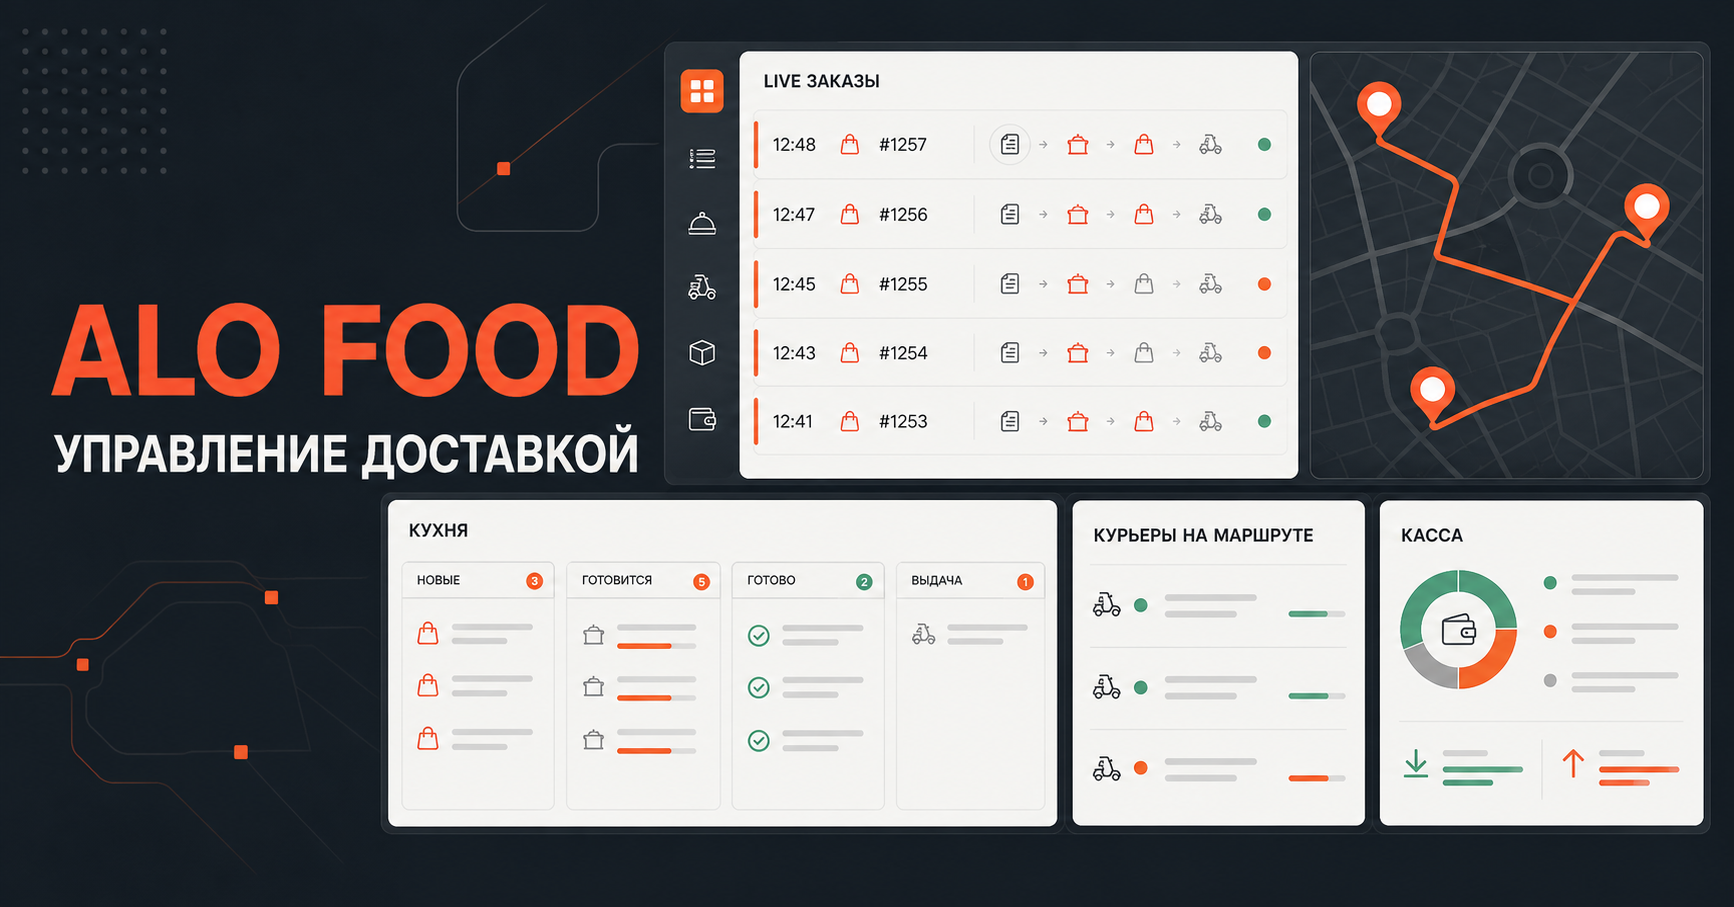
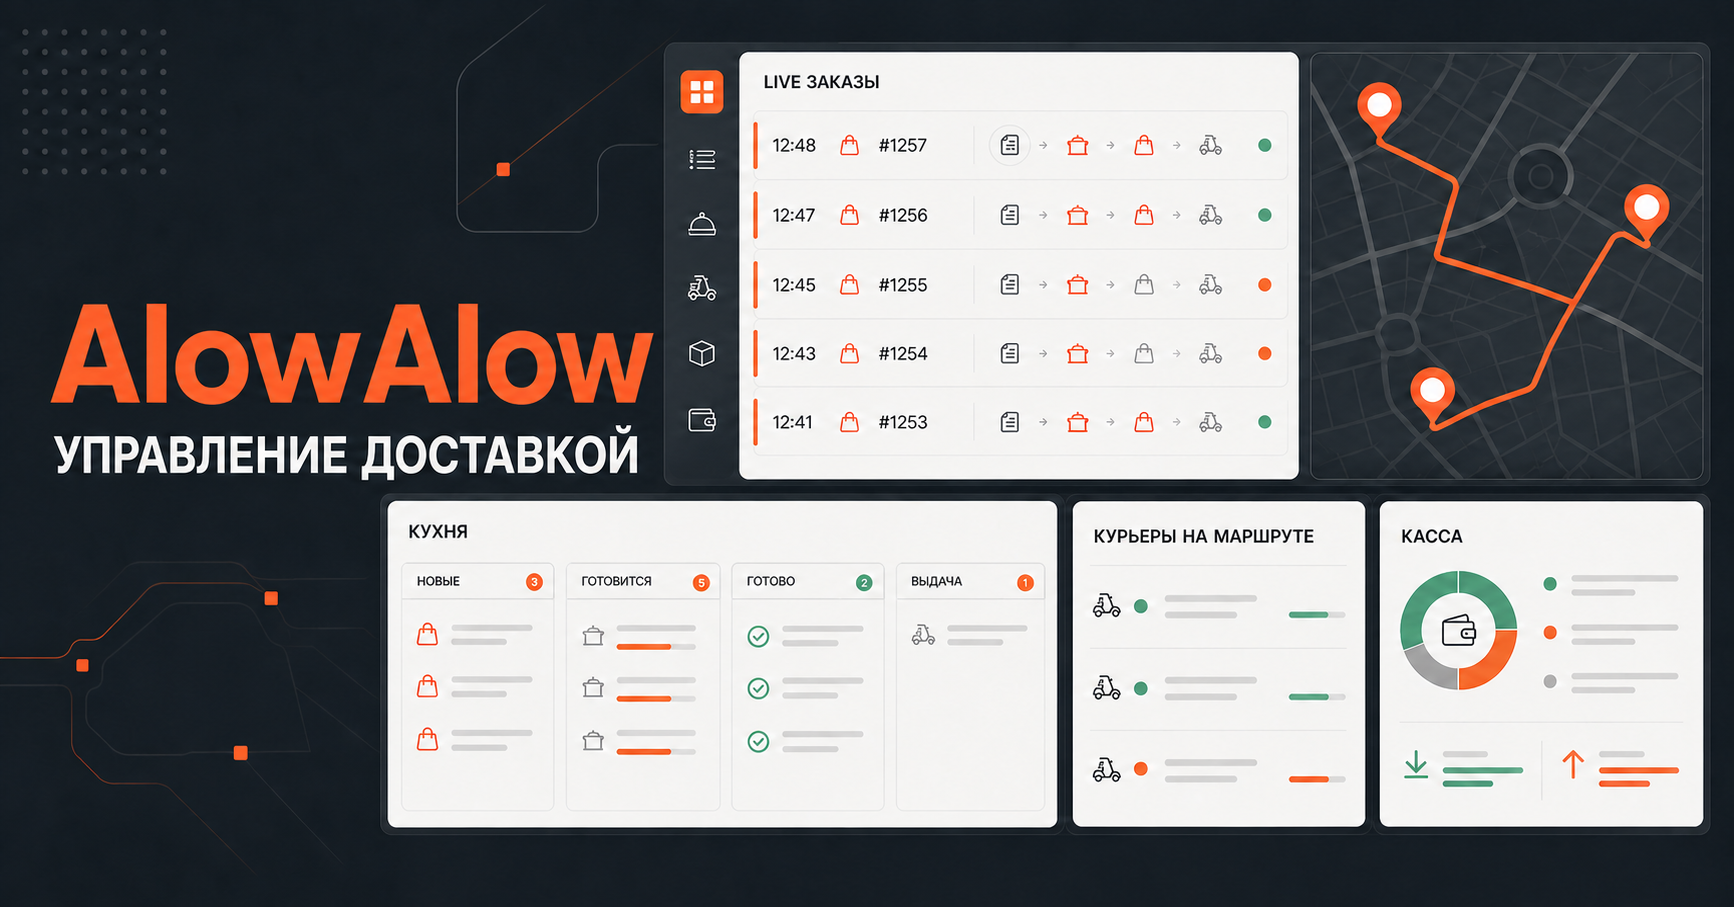
chore: rename product to AlowAlow

diff --git a/app/page.tsx b/app/page.tsx
@@ -41,7 +41,7 @@ const initialOrders: DemoOrder[] = [
     id: 1048,
     customer: "Aýlar B.",
     phone: "+993 65 42 18 90",
-    items: "ALO Burger ×2, фри, Cola",
+    items: "AlowAlow Burger ×2, фри, Cola",
     total: 126,
     status: "NEW",
     time: "2 мин",
@@ -183,7 +183,7 @@ export default function AdminDashboard() {
   const [toast, setToast] = useState("Система работает штатно");
   const [modal, setModal] = useState<"product" | "promo" | null>(null);
   const [products, setProducts] = useState([
-    { name: "ALO Burger", category: "Бургеры", price: 48, active: true, color: "coral" },
+    { name: "AlowAlow Burger", category: "Бургеры", price: 48, active: true, color: "coral" },
     { name: "Маргарита", category: "Пицца", price: 65, active: true, color: "yellow" },
     { name: "Chicken Box", category: "Комбо", price: 74, active: true, color: "green" },
     { name: "Цезарь", category: "Салаты", price: 47, active: false, color: "purple" },
@@ -246,11 +246,11 @@ export default function AdminDashboard() {
   return (
     <div className="app-shell">
       <aside className="sidebar">
-        <button className="brand" onClick={() => setNav("orders")} aria-label="ALO Food">
+        <button className="brand" onClick={() => setNav("orders")} aria-label="AlowAlow">
           <span className="brand-mark">A</span>
           <span>
-            <strong>ALO</strong>
-            <small>food operations</small>
+            <strong>AlowAlow</strong>
+            <small>delivery operations</small>
           </span>
         </button>
 
@@ -604,7 +604,7 @@ function CatalogView({
             <div className="product-copy">
               <small>{product.category}</small>
               <h3>{product.name}</h3>
-              <p>{product.category === "Пицца" ? "Томаты, моцарелла и базилик на тонком тесте." : "Свежие ингредиенты и фирменный соус ALO."}</p>
+              <p>{product.category === "Пицца" ? "Томаты, моцарелла и базилик на тонком тесте." : "Свежие ингредиенты и фирменный соус AlowAlow."}</p>
               <div><strong>{product.price} TMT</strong><button>Редактировать</button></div>
             </div>
             <label className="switch">
@@ -629,7 +629,7 @@ function MarketingView({ openModal }: { openModal: () => void }) {
       <section className="content-card">
         <div className="page-intro"><div><span className="section-kicker">Главная клиента</span><h2>Активные баннеры</h2></div><button className="secondary-button">＋ Баннер</button></div>
         <div className="banner-preview">
-          <div><span>ТОЛЬКО СЕГОДНЯ</span><h3>Вечер вкуснее<br />с ALO</h3><p>−20% на семейные комбо</p></div>
+          <div><span>ТОЛЬКО СЕГОДНЯ</span><h3>Вечер вкуснее<br />с AlowAlow</h3><p>−20% на семейные комбо</p></div>
           <strong>20<small>%</small></strong>
         </div>
         <div className="list-row"><span className="drag">⁝⁝</span><span className="thumb coral" /><div><strong>Семейный вечер</strong><small>До 27 июля, 23:59</small></div><StatusPill status="READY" /><button>•••</button></div>
@@ -704,7 +704,7 @@ function CreateModal({
     <div className="modal-backdrop" onMouseDown={onClose}>
       <div className="modal" onMouseDown={(event) => event.stopPropagation()} role="dialog" aria-modal="true" aria-label={type === "product" ? "Новое блюдо" : "Новый промокод"}>
         <div className="modal-head"><div><span className="section-kicker">{type === "product" ? "Каталог" : "Маркетинг"}</span><h2>{type === "product" ? "Новое блюдо" : "Создать промокод"}</h2></div><button onClick={onClose}>×</button></div>
-        <label><span>{type === "product" ? "Название" : "Код"}</span><input autoFocus value={name} onChange={(event) => setName(event.target.value)} placeholder={type === "product" ? "Например, ALO Cheeseburger" : "Например, SUMMER20"} /></label>
+        <label><span>{type === "product" ? "Название" : "Код"}</span><input autoFocus value={name} onChange={(event) => setName(event.target.value)} placeholder={type === "product" ? "Например, AlowAlow Cheeseburger" : "Например, SUMMER20"} /></label>
         <div className="modal-grid">
           <label><span>{type === "product" ? "Категория" : "Тип скидки"}</span><select><option>{type === "product" ? "Бургеры" : "Процент"}</option><option>{type === "product" ? "Пицца" : "Фиксированная сумма"}</option></select></label>
           <label><span>{type === "product" ? "Цена, TMT" : "Значение"}</span><input type="number" defaultValue={type === "product" ? 55 : 15} /></label>

diff --git a/api/prisma/seed.ts b/api/prisma/seed.ts
@@ -75,17 +75,22 @@ async function main() {
   update: { name: "Пицца", isActive: true },
   });
 
-  await prisma.product.upsert({
+  await prisma.product.updateMany({
   where: { slug: "alo-burger" },
+  data: { name: "AlowAlow Burger", slug: "alowalow-burger" },
+  });
+  await prisma.product.upsert({
+  where: { slug: "alowalow-burger" },
   create: {
     categoryId: burgers.id,
-    name: "ALO Burger",
-    slug: "alo-burger",
+    name: "AlowAlow Burger",
+    slug: "alowalow-burger",
     description: "Говяжья котлета, чеддер, свежие овощи и фирменный соус.",
     price: 48,
   },
   update: {
     categoryId: burgers.id,
+    name: "AlowAlow Burger",
     description: "Говяжья котлета, чеддер, свежие овощи и фирменный соус.",
     price: 48,
     isActive: true,

diff --git a/api/src/app.module.ts b/api/src/app.module.ts
@@ -35,12 +35,12 @@ import { HealthController } from "./health/health.controller";
           expiresIn: config.get("ACCESS_TOKEN_TTL", {
             infer: true,
           }),
-          issuer: "alo-food-api",
-          audience: "alo-food-clients",
+          issuer: "alowalow-api",
+          audience: "alowalow-clients",
         },
         verifyOptions: {
-          issuer: "alo-food-api",
-          audience: "alo-food-clients",
+          issuer: "alowalow-api",
+          audience: "alowalow-clients",
         },
       }),
     }),

diff --git a/api/src/bootstrap.ts b/api/src/bootstrap.ts
@@ -50,7 +50,7 @@ export function configureApp(app: INestApplication) {
 
 export function createOpenApiDocument(app: INestApplication): OpenAPIObject {
   const options = new DocumentBuilder()
-    .setTitle("ALO Food Delivery API")
+    .setTitle("AlowAlow Delivery API")
     .setDescription(
       "Phone-authenticated food delivery API with catalog, marketing, role-gated order workflow, courier routes, cash handover and reconciliation.",
     )

diff --git a/app/layout.tsx b/app/layout.tsx
@@ -13,7 +13,7 @@ const geistMono = Geist_Mono({
   subsets: ["latin", "cyrillic"],
 });
 
-const title = "ALO Food — центр управления доставкой";
+const title = "AlowAlow — центр управления доставкой";
 const description =
   "Администрирование заказов, кухни, курьеров, каталога, промокодов и наличных.";
 

diff --git a/api/src/config/env.ts b/api/src/config/env.ts
@@ -81,7 +81,7 @@ export function validateEnv(source: Record<string, unknown>): AppEnv {
     ),
     MAX_IMAGE_BYTES: number("MAX_IMAGE_BYTES", 5_242_880),
     S3_REGION: text("S3_REGION", "us-east-1"),
-    S3_BUCKET: text("S3_BUCKET", "alo-food-media"),
+    S3_BUCKET: text("S3_BUCKET", "alowalow-media"),
     S3_ENDPOINT: text(
       "S3_ENDPOINT",
       isProduction ? "" : "http://localhost:9000",

diff --git a/api/src/main.ts b/api/src/main.ts
@@ -12,7 +12,7 @@ async function bootstrap() {
   const document = createOpenApiDocument(app);
   SwaggerModule.setup("docs", app, document, {
     jsonDocumentUrl: "docs-json",
-    customSiteTitle: "ALO Food API",
+    customSiteTitle: "AlowAlow API",
   });
   const config = app.get(ConfigService<AppEnv, true>);
   const port = config.get("PORT", { infer: true });

diff --git a/api/src/health/health.controller.ts b/api/src/health/health.controller.ts
@@ -11,7 +11,7 @@ export class HealthController {
   health() {
     return {
       status: "ok",
-      service: "alo-food-api",
+      service: "alowalow-api",
       time: new Date().toISOString(),
     };
   }

diff --git a/app/globals.css b/app/globals.css
@@ -89,8 +89,8 @@ button {
 
 .brand strong {
   display: block;
-  font-size: 18px;
-  letter-spacing: 0.14em;
+  font-size: 17px;
+  letter-spacing: 0.025em;
 }
 
 .brand small {

diff --git a/README.md b/README.md
@@ -1,4 +1,4 @@
-# ALO Food
+# AlowAlow
 
 Первая рабочая версия платформы доставки еды:
 
